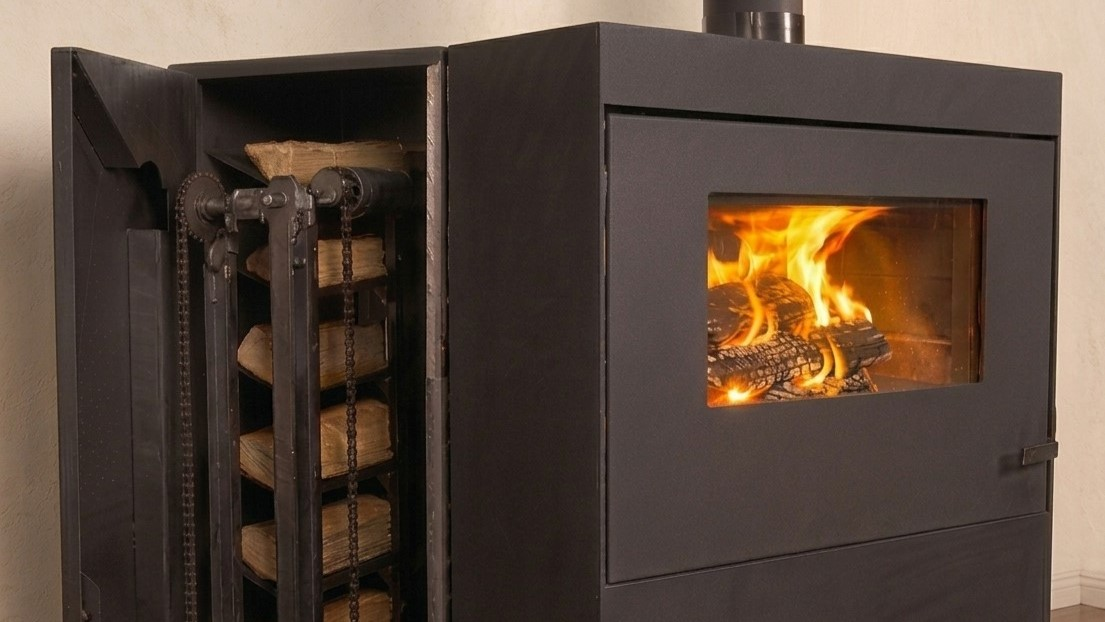
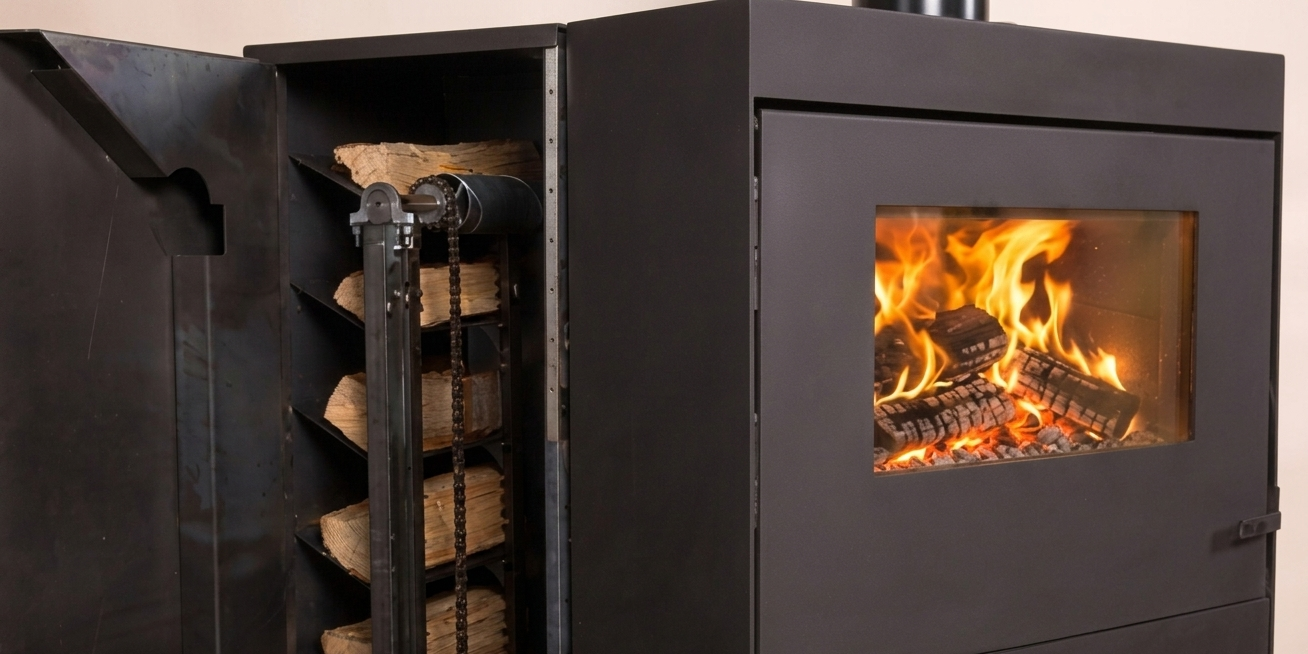
Update Modèles panel layout and photos; refresh landing and description photos
- Modèles panel: new photos from Photo Produits/Modèles, large top + two below layout
- Update text to single model with two finitions
- Refresh bandeau landing slideshow photos
- Refresh description produit photos

diff --git a/produits.html b/produits.html
@@ -590,17 +590,14 @@
   <div class="nav-panel" id="panelModeles">
     <h3 class="nav-panel-title">Modèles</h3>
     <ul class="nav-panel-list">
-      <li>Il existe actuellement deux modèles présentés ci-dessous</li>
+      <li>Il existe actuellement un modèle présenté ci-dessous et deux finitions.</li>
       <li>Deux finitions : "brut de fonderie" (première photo) et noir velouté (deuxième photo)</li>
     </ul>
-    <div class="nav-panel-images">
-      <div style="display:flex; flex-direction:column; gap:12px; flex:1;">
-        <img src="img/produits/modele1.jpg" alt="Modèle 1" style="width:100%; height:300px; object-fit:contain; background:#f5f5f5;">
-        <img src="img/produits/modele1b.jpg" alt="Modèle 1 détail" style="width:100%; height:280px; object-fit:cover; background:#f5f5f5;">
-      </div>
-      <div style="display:flex; flex-direction:column; gap:12px; flex:1;">
-        <img src="img/produits/modele2.jpg" alt="Modèle 2" style="width:100%; height:300px; object-fit:contain; background:#f5f5f5; object-position: center 30%;">
-        <img src="img/produits/modele2b.jpg" alt="Modèle 2 détail" style="width:100%; height:280px; object-fit:cover; background:#f5f5f5;">
+    <div style="display:flex; flex-direction:column; gap:20px; margin-top:24px;">
+      <img src="img/produits/modele1.jpg" alt="Modèle 1" style="width:100%; height:680px; object-fit:contain; background:#f5f5f5;">
+      <div style="display:flex; gap:24px;">
+        <img src="img/produits/modele3.jpg" alt="Modèle 3" style="flex:1; height:340px; object-fit:contain; background:#f5f5f5;">
+        <img src="img/produits/modele2.jpg" alt="Modèle 2" style="flex:1; height:340px; object-fit:contain; background:#f5f5f5;">
       </div>
     </div>
   </div>